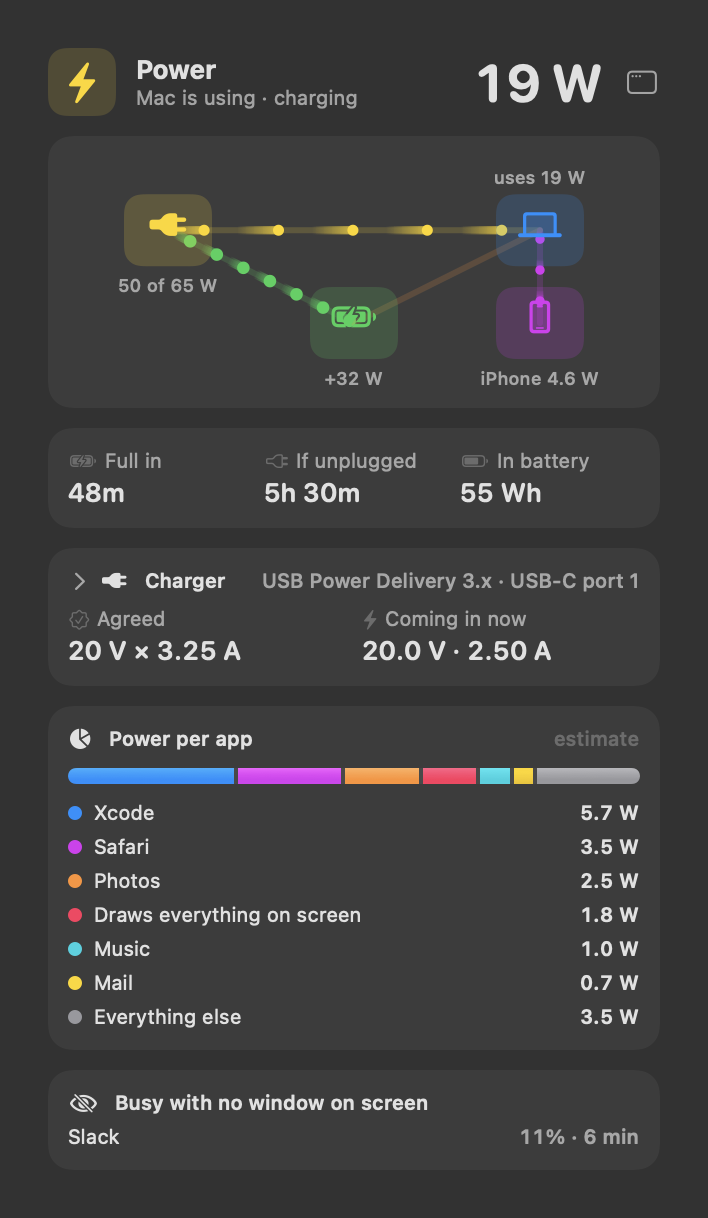
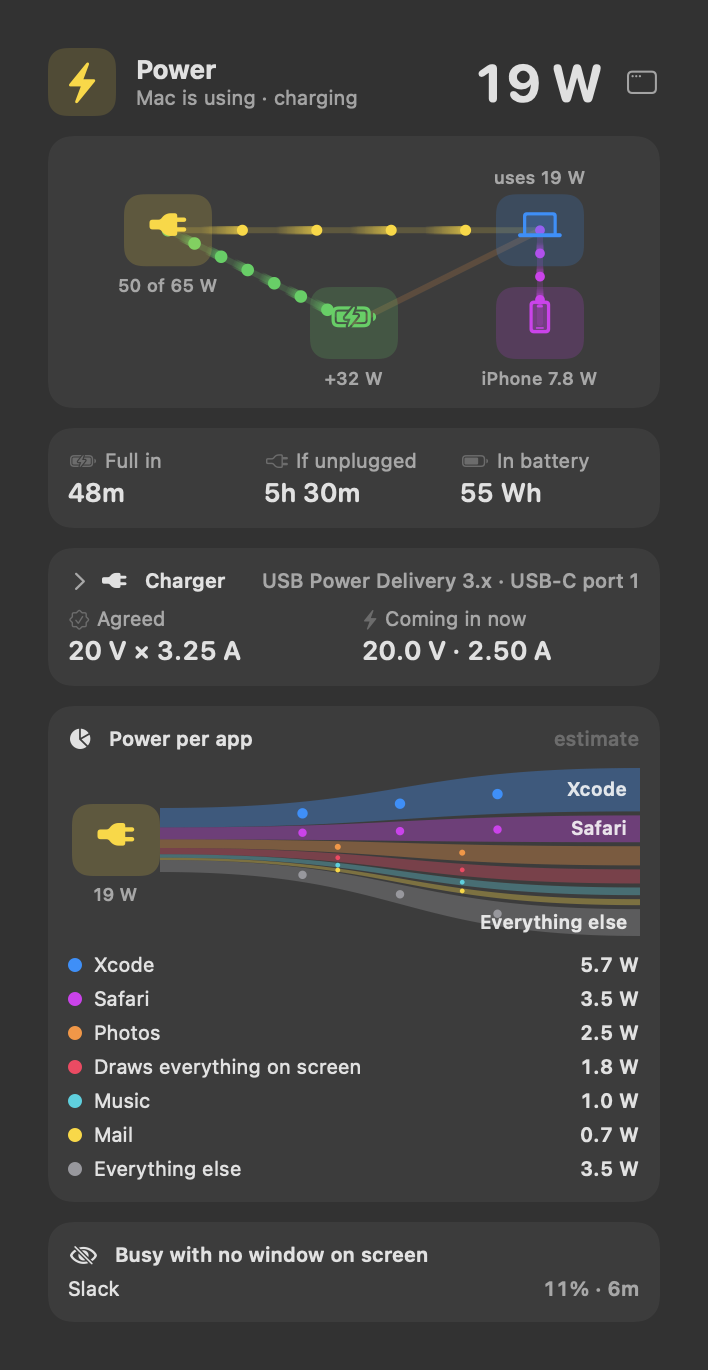
Sparewatt 1.11: changelog (live simulations: battery cell, memory map, fans, Replay my day, flows for power per app and graphics, Switch pulse, Extreme Saver's moment, Reduce Motion); feature and guide pages; demo screenshots of 1.11

diff --git a/CHANGELOG.md b/CHANGELOG.md
@@ -2,6 +2,37 @@
 
 What changed in Sparewatt, newest first, in plain words. Dates are when the change landed in the app's repository.
 
+## 2026-11-08 — Sparewatt 1.11
+
+Released as [Sparewatt 1.11](https://github.com/MShirazAhmad/Sparewatt-docs/releases/tag/v1.11-2026-11-08).
+
+Live simulations across the app, in the spirit of the Power flow. Every motion follows a real reading; where macOS gives
+no number, nothing moves.
+
+- **The battery, to scale** (Battery panel). The whole cell is what it held when new, the hatched part is lost to wear
+  ("9% lost to wear"), and dots run toward the edge of the charge while it charges and away while it drains, faster the
+  more watts flow. Resting, they stop. A line marks where macOS is holding the charge.
+- **A memory map** (Memory panel): 100 blocks, one per 1% of memory, in place of the bar. Blocks fly between *Apps* and
+  *Squeezed* while macOS squeezes and unsqueezes memory, and to or from the drive while it swaps, from macOS's own
+  counters.
+- **Fans that spin in proportion to their rpm** (Temperature panel), and stand still when the fan stops. Before, the
+  speed was set once and never followed the fan.
+- **Replay my day** (Dashboard → History): a day played back in 30 seconds from the saved minute readings, with a strip
+  to drag to any moment and any of the last days to pick. Gaps say the Mac was asleep or Sparewatt wasn't running.
+- **Power per app as a flow** (Power panel and dashboard): from the battery or charger to each app, each band as thick
+  as its share, still marked as an estimate. A click opens the app's processes, as before.
+- **Graphics as a flow** (Graphics panel): each app's part of the chip's work flowing into it, the same figures as the
+  list under it.
+- **A pulse on each Switch** each time its health check runs and finds it on. A switch with no check to run has none.
+- **Extreme Saver's moment:** when it turns on, the apps it pauses dim one by one while the battery time that gives back
+  counts up ("Paused 3 apps · about +48m", an estimate). The row stays while it is on.
+- **Reduce Motion.** With macOS's Reduce Motion on, every diagram is a still picture, and Replay my day keeps its strip
+  to drag through instead of **Play**.
+- **What it costs.** Each new diagram takes about a third of the drawing time of the Power flow, only while it is on
+  screen, and none at all while nothing in it is moving. With no panel open nothing is drawn.
+- **Smoother dots.** A new reading changes how fast the dots carry on, instead of making them jump.
+- **Fix:** opening a panel from a link or a shortcut while another panel was open could leave nothing open.
+
 ## 2026-11-07 — Sparewatt 1.10
 
 Released as [Sparewatt 1.10](https://github.com/MShirazAhmad/Sparewatt-docs/releases/tag/v1.10-2026-11-07).

diff --git a/features/06 Power.md b/features/06 Power.md
@@ -155,13 +155,14 @@ another device shows as a second entry. Kept only on this Mac (`chargers.json`, 
 
 ## Power per app (share of battery drain)
 
-<p align="center"><img src="../images/features/power-per-app.png" width="354" alt="Power per app (share of battery drain)"><br><em>On the charger: one bar and a row per app, in watts (a donut on the dashboard); click one to see its processes.</em></p>
+<p align="center"><img src="../images/features/power-per-app.png" width="354" alt="Power per app (share of battery drain)"><br><em>On the charger: a live flow to each app and a row per app, in watts; click one to see its processes. (Sample values.)</em></p>
 
 **Purpose.** Know which apps cost the most power right now — and how much battery time each takes.
 
 **What it does.** Every 10 seconds while the panel is open, the Mac's measured draw is split between apps by their
-share of *energy impact* over **every** process. In the panel, one stacked bar and a row per app show the top 6 and
-*Everything else*; the dashboard shows them as a donut.
+share of *energy impact* over **every** process. A live flow runs from the battery or charger to each app, each band
+as thick as its share and its dots faster the more watts it takes, above a row per app for the top 6 and *Everything
+else*. With live diagrams off it is one stacked bar, and a donut on the dashboard.
 - **On the charger:** watts per app. On the dashboard a tip names the top two ("“Safari” and “Zoom” use 53% of the power
   right now").
 - **On battery:** each app's share of the drain and **how much battery time it takes** (−42m) — the time you'd get back
@@ -171,7 +172,7 @@ share of *energy impact* over **every** process. In the panel, one stacked bar a
 
 <p align="center"><img src="../images/features/battery-time-per-app.png" width="354" alt="Battery time per app"><br><em>On battery: the share of the drain and the battery time each app takes, and what quitting the top two gives back. (Sample values.)</em></p>
 
-Click a part of the bar (a slice of the donut) or a name to see its processes and quit or force quit them (with
+Click a band of the flow (a part of the bar, a slice of the donut) or a name to see its processes and quit or force quit them (with
 confirmation).
 
 **Use cases.**

diff --git a/features/README.md b/features/README.md
@@ -66,7 +66,7 @@ answers three questions from the menu bar:
 | Switches | local services on/off | see and stop background servers | [Switches](10%20Switches.md) |
 | Dashboard, Overview, Mac health | everything in one window | "All good" or exactly what to look at, slow-downs to cool and restarts included | [Dashboard, history and this app](11%20Dashboard%2C%20history%20and%20this%20app.md) |
 | Find a setting | search every setting from the dashboard sidebar | no hunting through pages | [Dashboard, history and this app](11%20Dashboard%2C%20history%20and%20this%20app.md#find-a-setting) |
-| History and CSV export | look back 30 days | every battery stretch with its top apps | [Dashboard, history and this app](11%20Dashboard%2C%20history%20and%20this%20app.md#history) |
+| History, Replay my day and CSV export | look back 30 days, watch a day again | every battery stretch with its top apps | [Dashboard, history and this app](11%20Dashboard%2C%20history%20and%20this%20app.md#history) |
 | "My Mac today" share card | share your Mac's day as one picture | nothing personal on it | [Dashboard, history and this app](11%20Dashboard%2C%20history%20and%20this%20app.md#my-mac-today-share-card) |
 | "My Mac this week", Monday summary | the week in one picture, or one note on Monday | battery time, top drain, data used | [Dashboard, history and this app](11%20Dashboard%2C%20history%20and%20this%20app.md#my-mac-this-week-card) |
 | Startup Items | what starts on its own | spot background helpers | [Dashboard, history and this app](11%20Dashboard%2C%20history%20and%20this%20app.md#startup-items) |

diff --git a/features/02 Processor, graphics and memory.md b/features/02 Processor, graphics and memory.md
@@ -50,6 +50,10 @@ the graphics time each app used over one second. *Who is using the graphics* (by
 
 **Benefits.** Activity Monitor doesn't show graphics per app by default; this does.
 
+**Who is using it, as a picture.** With live diagrams on, a flow from the top apps into the graphics chip: each band is
+as thick as that app's part of the chip's work, the same figures as the list under it, and its dots go faster the more
+it uses. macOS doesn't say which graphics core an app is on, so there are no per-core tiles here.
+
 **Where.** GPU part of the menu bar; Dashboard → **Graphics**.
 
 **Settings.** *GPU: memory it holds (shared with RAM)* adds the graphics chip's memory to the menu bar (off by default).
@@ -90,6 +94,11 @@ only.
 - "Used memory" alone is misleading on a Mac (cached files count as used). Pressure and swap tell you whether it
   matters.
 - The forecast warns before the Mac slows down, not after.
+
+**The memory map.** With live diagrams on, the bar becomes 100 blocks, one per 1% of memory, in the legend's colours.
+Blocks fly between *Apps* and *Squeezed* while macOS squeezes and unsqueezes memory, and to or from the drive while it
+writes memory out or reads it back, as many and as fast as macOS's own counters say, on a log scale from 10 KB/s to
+1 GB/s. With nothing moving, the map is still.
 
 **Where.** RAM part of the menu bar; Dashboard → **Memory**.
 

diff --git a/features/05 Battery.md b/features/05 Battery.md
@@ -39,6 +39,19 @@ state, not a guess.
 
 ---
 
+## The battery, to scale
+
+<p align="center"><img src="../images/features/battery-cell.png" width="354" alt="The battery cell"><br><em>The battery cell: the charge, the part lost to wear, and which way the energy is going. (Sample values.)</em></p>
+
+**Purpose.** See at a glance how full the battery is, how much of it is gone for good, and whether it is filling or
+draining.
+
+**What it does.** The first card of the Battery panel draws the battery to scale. The whole cell is what it held when
+new; the hatched part at the far end is lost to wear ("9% lost to wear"). The charge fills from the left. Dots run
+toward its edge while it charges and away from it while it drains, faster the more watts flow, on the same scale as the
+Power flow, with the figure under it ("+32 W going in", "−11 W going out"). Resting, the dots stop. While macOS holds
+the charge (a charge limit, Optimized Charging) a line marks where.
+
 ## Health card
 
 <p align="center"><img src="../images/features/panel-battery.png" width="320" alt="Health card"><br><em>Battery panel: header · if you unplug now · Health card · Devices (keyboard, mouse, AirPods) · energy mode, Extreme Saver and profiles.</em></p>

diff --git a/features/11 Dashboard, history and this app.md b/features/11 Dashboard, history and this app.md
@@ -88,6 +88,15 @@ Click a finding to open its page.
 period, and **Times on battery**: each stretch with start, length, from–to %, average watts and the apps that used the
 most power.
 
+### Replay my day
+
+<p align="center"><img src="../images/features/day-replay.png" width="800" alt="Replay my day"><br><em>Replay my day: the saved readings played back through the power flow, with the whole day as a strip to drag through. (Sample values.)</em></p>
+
+The card at the top of History plays a day back in 30 seconds: plugged in or not, the charge, what the Mac drew, the
+processor and its temperature, minute by minute, from the readings Sparewatt saved. **Play** runs it; drag the strip
+to any moment. Stretches on battery are shaded. Pick another day from the menu. Where there is no reading it says so:
+the Mac was asleep or Sparewatt wasn't running. A charge lane is drawn when the saved percentage was climbing.
+
 **Export CSV…** saves everything stored (not just the chosen range): the minute readings, then the stretches on battery
 with their top apps.
 

diff --git a/features/03 Temperature, network and storage space.md b/features/03 Temperature, network and storage space.md
@@ -19,7 +19,8 @@
   [Mac health](11%20Dashboard%2C%20history%20and%20this%20app.md#overview-and-mac-health); warm for 10 minutes is
   *worth a look*.
 - **Fans card:** a thin *Last 2 min* strip of the processor temperature with its range ("41–58 °C", or "steady"), then
-  each fan's speed in rpm against its maximum (up to four), or "No fans — this Mac is fanless". With live diagrams off,
+  each fan's speed in rpm against its maximum (up to four), or "No fans — this Mac is fanless". Each fan's icon spins in
+  proportion to its real speed (a real fan turns far too fast to draw) and stands still when the fan stops. With live diagrams off,
   the graphics, storage and battery temperatures are in this card too.
 - **Chip heat map:** processor, graphics, chip, storage and battery zones that glow as they heat up.
 - **All sensors:** folded to one line with the number of sensors and the hottest one. Click it for every temperature

diff --git a/features/07 Power controls.md b/features/07 Power controls.md
@@ -114,6 +114,14 @@ longer paused; turn it off and on to pause them again.
 
 ---
 
+### The moment it turns on
+
+<p align="center"><img src="../images/features/saver-moment.png" width="354" alt="What Extreme Saver paused"><br><em>What Extreme Saver paused, and about how much battery time that gives back. (Sample values.)</em></p>
+
+When Extreme Saver turns on, the apps it pauses dim one by one under its switch while the battery time pausing them
+gives back counts up ("Paused 3 apps · about +48m"). The time is an estimate from their share of the power, the same
+sum as *Power per app*, and is left out on the charger. The row stays while Extreme Saver is on.
+
 ## Profiles
 
 <p align="center"><img src="../images/features/profiles.png" width="480" alt="Profiles"><br><em>Profiles: Lecture, Lab, Travel — energy mode on battery and on charger, and Extreme Saver, per profile.</em></p>

diff --git a/features/01 Menu bar.md b/features/01 Menu bar.md
@@ -164,7 +164,7 @@ Dashboard → **Menu Bar** has six sections, each one kind of setting:
 | Look | grouping, the outline, words or icons, text size, update speed |
 | Colours | drain colours, colours by value, and storage turning orange when memory spills to the SSD |
 | Alerts | the red glow and its limits, and the *Still high* and *Unusual background activity* notifications |
-| Panels | hover to open, live diagrams, the clipboard, Latest File and where it looks |
+| Panels | hover to open, live diagrams (still pictures when macOS's Reduce Motion is on), the clipboard, Latest File and where it looks |
 
 Looking for one setting? Type a word or two into *Find a setting* at the top of the dashboard sidebar
 ([more](11%20Dashboard%2C%20history%20and%20this%20app.md#find-a-setting)).

diff --git a/README.md b/README.md
@@ -4,7 +4,7 @@
 
 <p align="center">
 <a href="https://github.com/MShirazAhmad/Sparewatt-docs/releases/latest"><img src="https://badgen.net/github/assets-dl/MShirazAhmad/Sparewatt-docs?label=downloads&color=green&scale=1.4" alt="Total downloads"></a>
-<a href="https://github.com/MShirazAhmad/Sparewatt-docs/releases/latest"><img src="https://img.shields.io/badge/latest-v1.10-blue" alt="Latest release"></a>
+<a href="https://github.com/MShirazAhmad/Sparewatt-docs/releases/latest"><img src="https://img.shields.io/badge/latest-v1.11-blue" alt="Latest release"></a>
 <img src="https://img.shields.io/badge/macOS-14%2B-blue" alt="macOS 14 or later">
 <img src="https://img.shields.io/badge/price-free-brightgreen" alt="Free">
 </p>

diff --git a/features/10 Switches.md b/features/10 Switches.md
@@ -96,6 +96,8 @@ Sparewatt keeps checking, so a switch that gets there later turns on (or off) an
 
 ## Good to know
 
+- A ring leaves a switch's icon each time its health check runs and finds it on: every 10 seconds while a panel or the
+  dashboard is open. A switch set to *Started by this app* has no check to run, so it has no ring.
 - Commands run as you, exactly as typed.
 - *Delete* in the editor removes the switch at once (no confirmation).
 - Switches are saved in `~/Library/Application Support/Sparewatt/switches.json`; you can edit it by hand and use

diff --git a/guide/06 Dashboard and history.md b/guide/06 Dashboard and history.md
@@ -26,6 +26,8 @@ ones, and highlights one using far more than usual.
 
 ## History
 
+**Replay my day**, at the top of the page, plays a day back in 30 seconds from the saved readings; drag its strip to any moment.
+
 Battery charge, power use, processor load and temperature over 1 hour to 30 days (one sample a minute, kept 30 days),
 and a log of **every stretch on battery**: how long, how much charge it used, and which apps used the most power.
 
